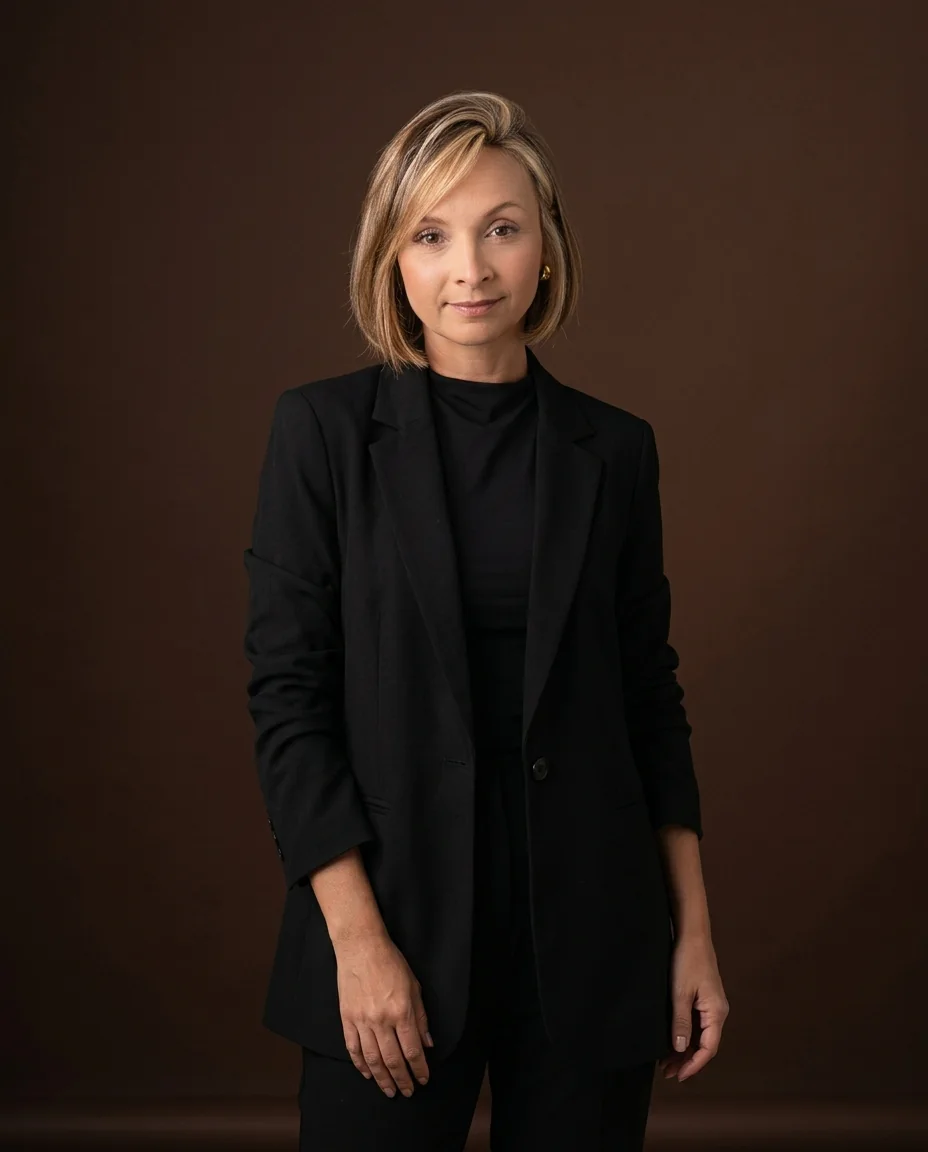
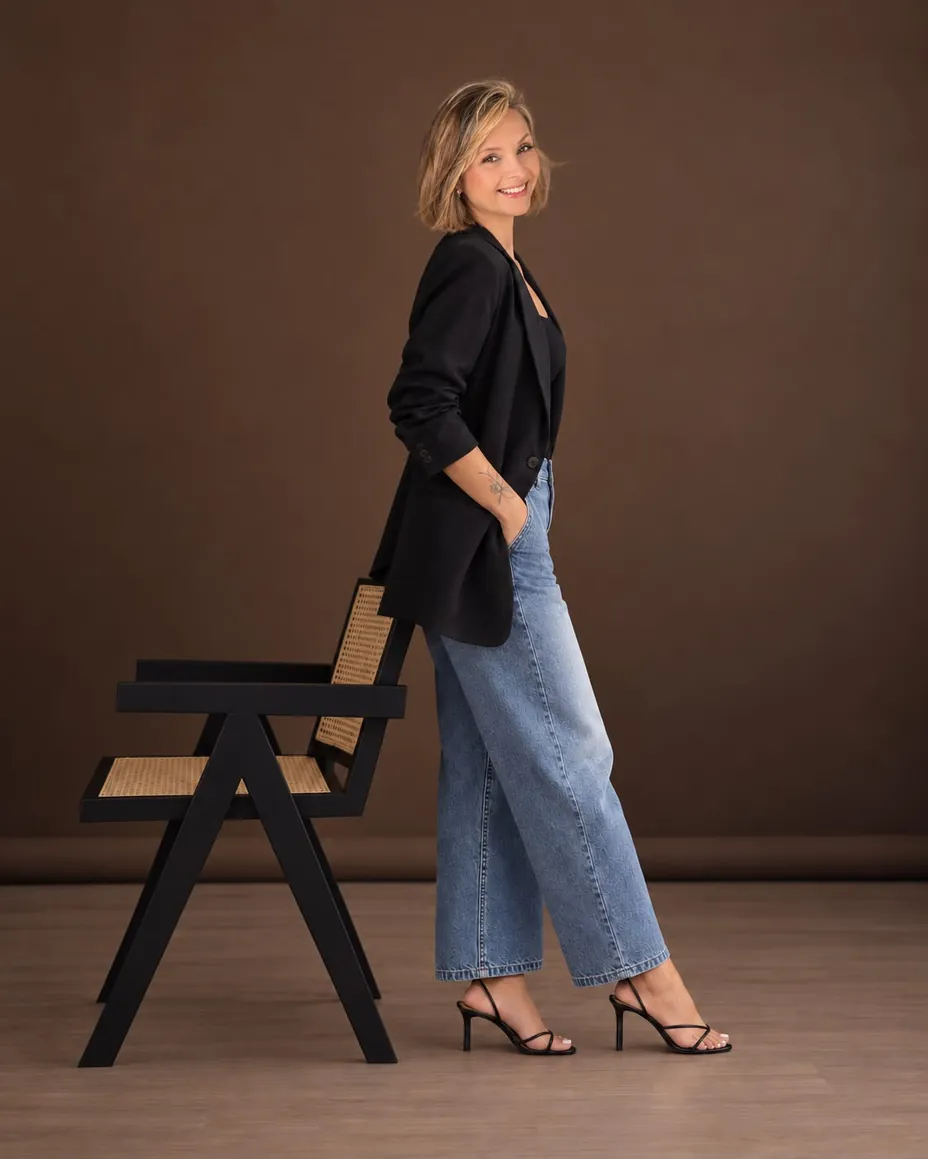
Seção Sobre: troca a foto de frente pela foto da Josi sorrindo apoiada na cadeira

diff --git a/src/sections/About.jsx b/src/sections/About.jsx
@@ -19,11 +19,11 @@ const About = () => {
                         <div className="relative aspect-[4/5] md:aspect-square bg-secondary/30 rounded-sm overflow-hidden max-w-md mx-auto md:max-w-none">
                             <img
                                 src="/josi-souza-sobre.webp"
-                                alt="Josi Souza"
+                                alt="Josi Souza sorrindo, de blazer preto e calça jeans, apoiada em uma cadeira de palhinha"
                                 loading="lazy"
                                 width="928"
-                                height="1152"
-                                className="w-full h-full object-cover object-[50%_62%] md:object-[50%_0%] hover:scale-105 transition-transform duration-700"
+                                height="1159"
+                                className="w-full h-full object-cover object-center md:object-[50%_10%] hover:scale-105 transition-transform duration-700"
                             />
                         </div>
                     </m.div>
